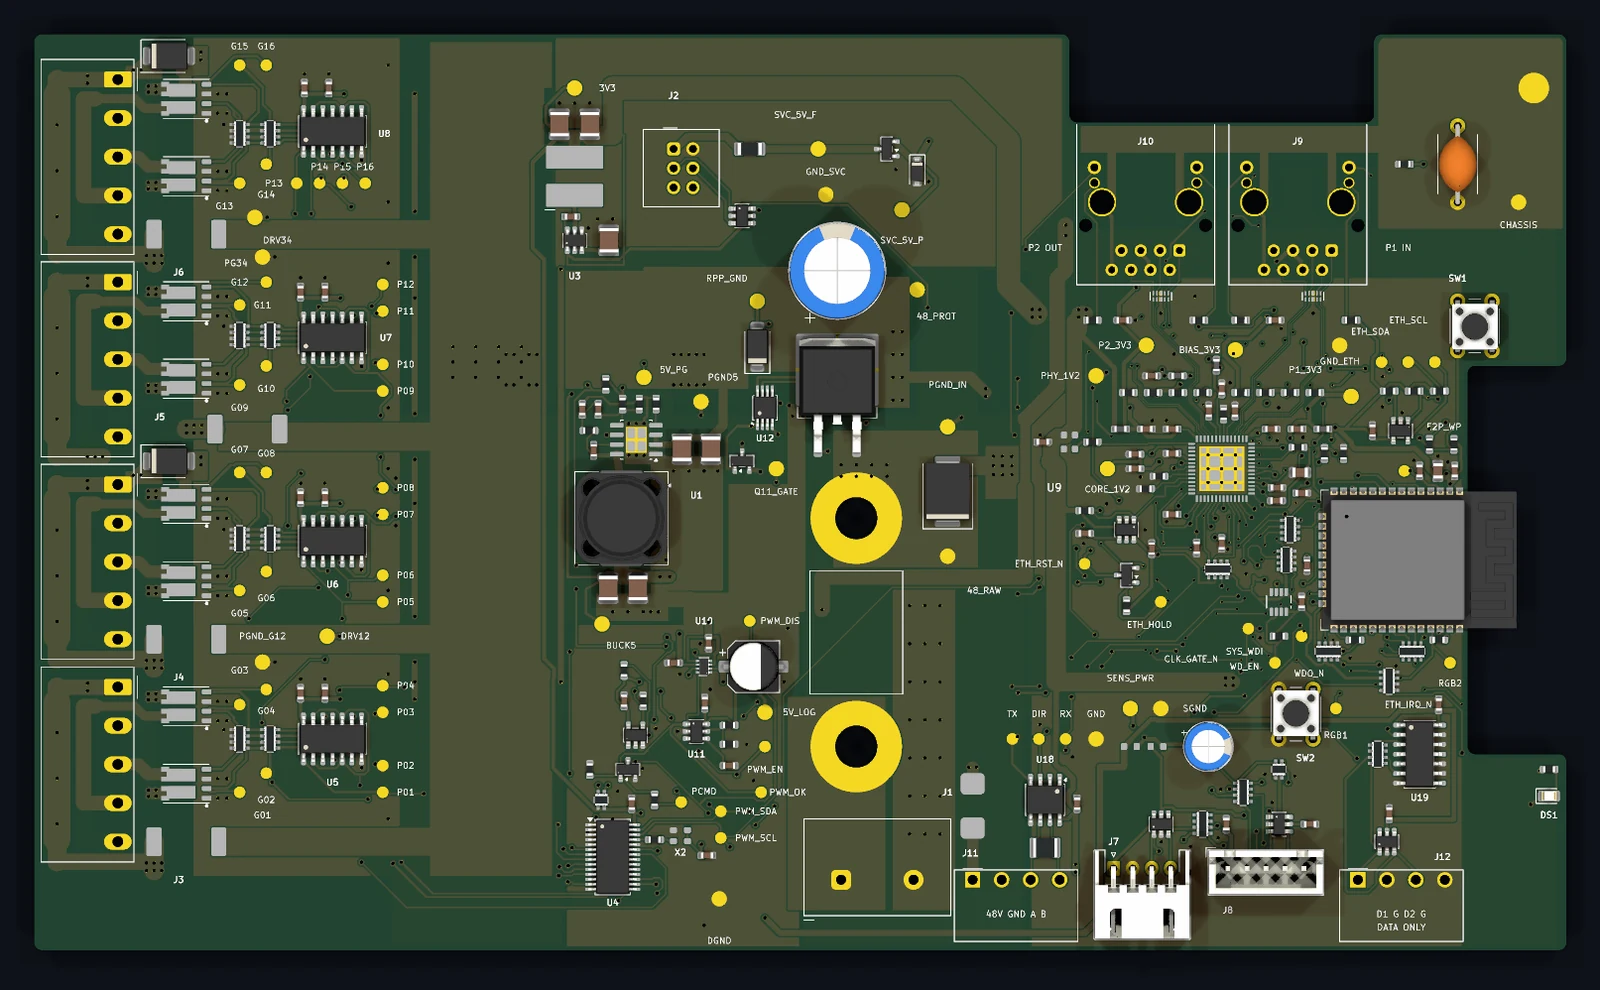
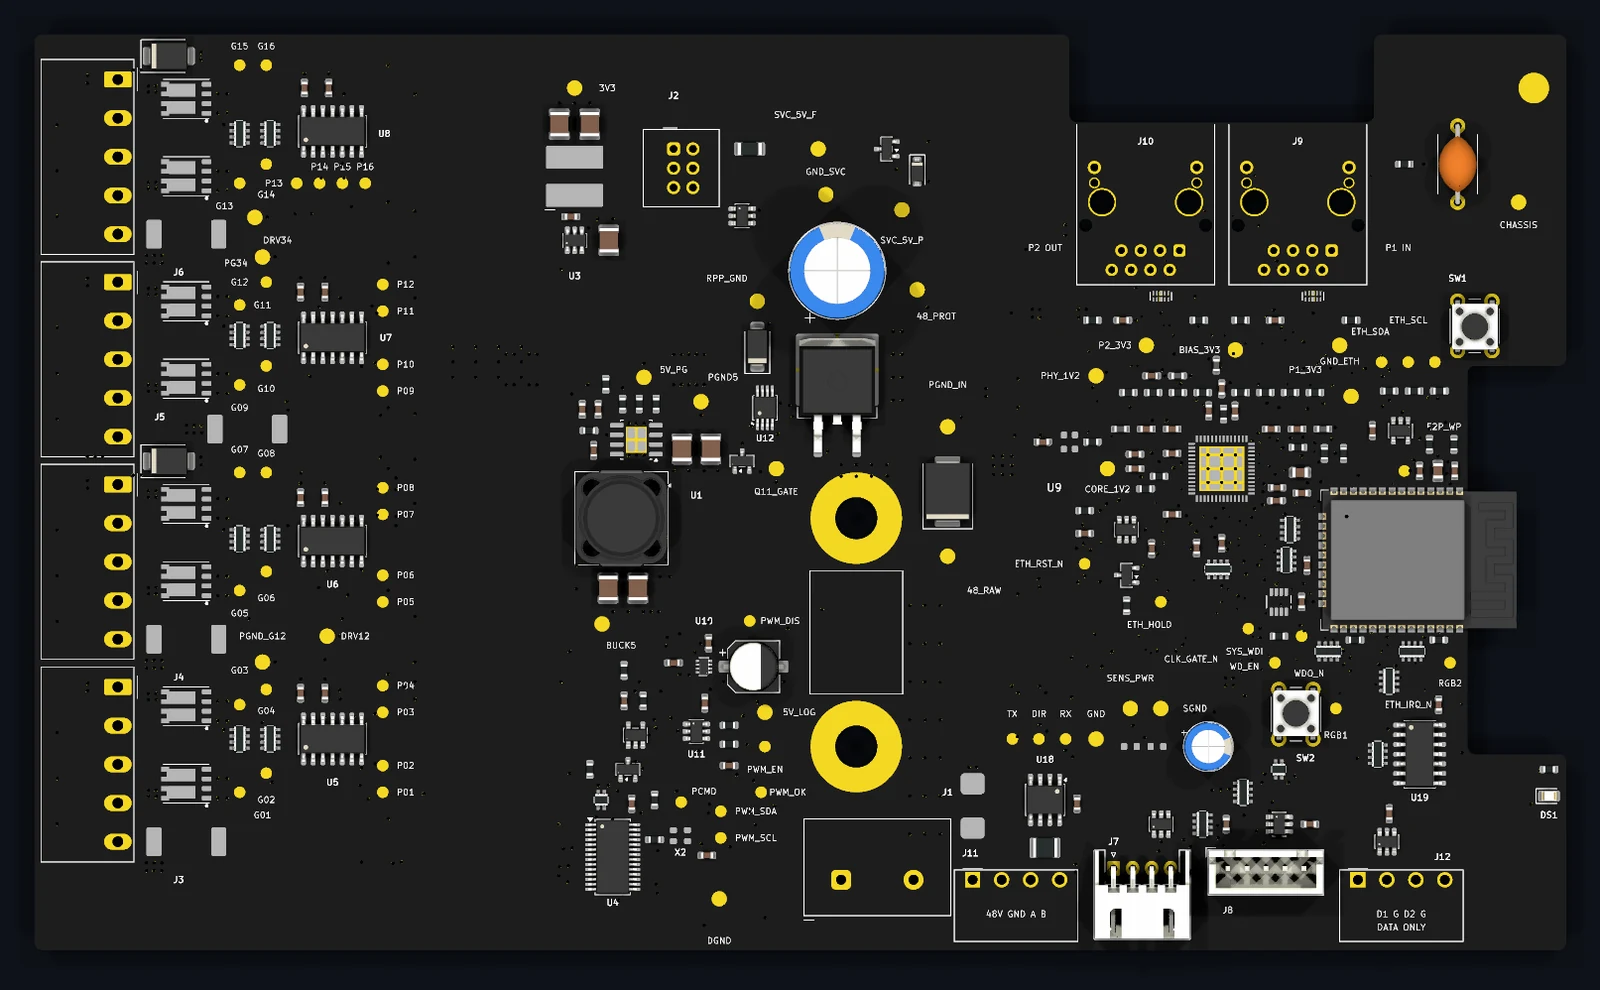
content: black-mask render plus the copper layout, side by side
Two owner requests. The green solder mask looked wrong against a dark page, and
one image was doing the work of two.

Black mask: the board file specifies no stackup colour, so KiCad rendered its
default green. Setting the mask alone was not enough — the renderer ignores
stackup colours unless --use-board-stackup-colors is passed, and KiCad's named
'Black' still comes through brown where the copper pour sits under it. A custom
#141414 mask with white silk gives the black-with-gold-pads look of the Room
Controller image. The colour override lives in a scratch copy; the board file in
the eOS repo is untouched.

Both images: Flagship.image becomes Flagship.images, an ordered set. The card
now carries the 3D render and, beside it, all four copper layers overlaid —
front in orange, the two inner reference planes in cyan and violet, back in
slate. The render shows what the board is; the layout shows the thing the card
actually claims, which is four layers and dense differential routing. Neither
image proves that alone.

The pair is a container query, not a media query, for the same reason .metrics
is: two images side by side only earn their place on a card wide enough to keep
both legible, and card width is not viewport width.

diff --git a/src/data/site.ts b/src/data/site.ts
@@ -133,11 +133,12 @@ export type Flagship = {
       instruments, or a tool's own output. `note` carries the qualifier that
       keeps the number honest (see docs/design-specs/h1-hardware-and-pcb.md §4). */
   metrics?: { k: string; v: string; note?: string }[];
-  /** Board render or photograph (T2.2). `caption` states what the image *is*,
-      so a CAD render is never mistaken for a photograph of a built board.
-      Dimensions are required — the intrinsic size reserves layout space and
-      keeps the card from reflowing as the image decodes. */
-  image?: { src: string; alt: string; caption: string; w: number; h: number };
+  /** Board renders, layout views or photographs (T2.2). Each `caption` states
+      what the image *is*, so a CAD render is never mistaken for a photograph of
+      a built board. Dimensions are required — the intrinsic size reserves layout
+      space and keeps the card from reflowing as the image decodes. Two images
+      sit side by side on a full-width card and stack on a narrow one. */
+  images?: { src: string; alt: string; caption: string; w: number; h: number }[];
   /** Partition/slot exhibit (T2.5). Weights are visual proportions only —
       captions say "scheme"/"layout" deliberately; no sizes are claimed (D-016). */
   partitions?: {
@@ -278,13 +279,22 @@ const flagshipOrder: Omit<Flagship, "fig">[] = [
       "Closed the first board's routing at zero unconnected and zero shorts after roughly twelve strategies, the decisive one being that connections reported as closed were not touching: endpoints were being reached on the wrong copper layer, so a front pad was 'met' from the back.",
       "Regenerated the schematic to 180 nets and 912 nodes with ERC clean and zero waivers, then closed the four-layer routing at zero unconnected and cut the fabrication package. The DC figures remain copper screens — not a qualified current rating, thermal result or Ethernet compliance claim — and the card says so where they appear.",
     ],
-    image: {
-      src: "/zone-controller-v2.webp",
-      alt: "KiCad 3D render of the eOS Zone Controller v2 board: four groups of output driver ICs and screw terminals down the left edge, the 48 V power section with a shielded inductor and TO-263 regulator through the middle, and the ESP32 module, Ethernet switch and two RJ45 magnetics positions at the right.",
-      caption: "kicad 3d render — zone controller v2, 201 × 120 mm, four layers",
-      w: 1600,
-      h: 990,
-    },
+    images: [
+      {
+        src: "/zone-controller-v2.webp",
+        alt: "KiCad 3D render of the eOS Zone Controller v2 board on black solder mask: four groups of output driver ICs and screw terminals down the left edge, the 48 V power section with a shielded inductor and TO-263 regulator through the middle, and the ESP32 module, Ethernet switch and two RJ45 magnetics positions at the right.",
+        caption: "kicad 3d render — 201 × 120 mm, black mask",
+        w: 1600,
+        h: 990,
+      },
+      {
+        src: "/zone-controller-v2-layout.webp",
+        alt: "Copper layout of the same board with all four layers overlaid: front copper in orange, the two inner reference planes in cyan and violet, back copper in slate. The sixteen output channels are visible as four driver groups at the left and the dense Ethernet routing at the right.",
+        caption: "all four copper layers — front, two inner planes, back",
+        w: 1600,
+        h: 956,
+      },
+    ],
     tech: ["KiCad", "48 V DC", "ESP32", "LAN9354", "RMII", "PCA9685", "4-layer stackup", "100 Ω differential", "12-bit PWM dimming", "Addressable RGBW"],
     params: [
       { k: "Bus", v: "48 V DC" },

diff --git a/src/styles/global.css b/src/styles/global.css
@@ -419,10 +419,15 @@ html.boot-hold .hero .po, html.boot-hold .hero__lead em::after { animation-play-
 .star { font-family: var(--font-mono); font-size: var(--fs-micro); color: var(--warn); display: inline-flex; align-items: center; gap: 0.3em; }
 
 /* Partition-map exhibit (T2.5) */
-/* Board render (T2.2). The dark board art sits on the card's own surface, so
+/* Board renders (T2.2). The dark board art sits on the card's own surface, so
    the frame is a hairline rather than a panel — the image is evidence, not
-   decoration, and shouldn't read as a hero banner. */
-.board { margin: 0; border: 1px solid var(--border); border-radius: var(--radius-sm); overflow: hidden; background: var(--code-bg); }
+   decoration, and shouldn't read as a hero banner.
+   A pair sits side by side, but only where the card is wide enough to keep both
+   legible: a container query again, for the same reason as .metrics. */
+.boards { display: grid; gap: var(--space-4); container-type: inline-size; }
+@container (min-width: 44rem) { .boards--pair { grid-template-columns: 1fr 1fr; } }
+.board { margin: 0; border: 1px solid var(--border); border-radius: var(--radius-sm); overflow: hidden; background: var(--code-bg); display: flex; flex-direction: column; }
+.board__img { flex: 1 1 auto; object-fit: contain; }
 .board__img { display: block; width: 100%; height: auto; }
 .board__caption { font-family: var(--font-mono); font-size: var(--fs-micro); color: var(--silkscreen); letter-spacing: 0.08em; padding: 0.5rem 0.75rem; border-top: 1px solid var(--border); }
 
